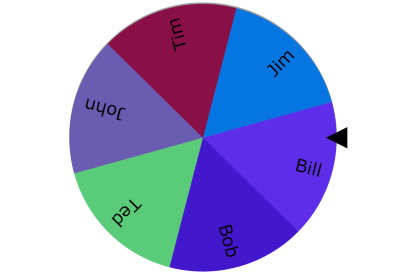
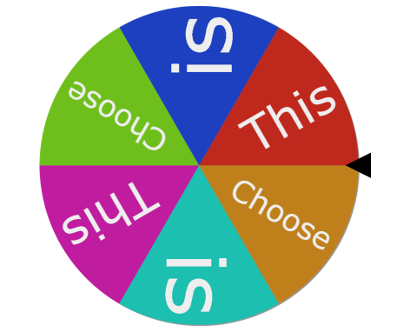
Fixed issue with autosize text. Added better random color generator. Updated Choose thumbnail.

diff --git a/js/choose.js b/js/choose.js
@@ -44,19 +44,48 @@ saveChoicesButton.addEventListener( "click", function()
 
 /* Utilities */
 
-var seed = 1;
-function fixedRandom()
+function HSVtoRGB( h, s, v )
 {
-    var x = Math.sin( seed++ ) * 10000;
-    return x - Math.floor( x );
+    var r, g, b, i, f, p, q, t;
+    if( h === undefined )
+    {
+        h = 1.0;
+    }
+    if( s === undefined )
+    {
+        s = 1.0;
+    }
+    if( v === undefined )
+    {
+        v = 1.0;
+    }
+    i = Math.floor( h * 6 );
+    f = h * 6 - i;
+    p = v * ( 1 - s );
+    q = v * ( 1 - f * s );
+    t = v * ( 1 - ( 1 - f ) * s );
+    switch( i % 6 )
+    {
+        case 0: r = v, g = t, b = p; break;
+        case 1: r = q, g = v, b = p; break;
+        case 2: r = p, g = v, b = t; break;
+        case 3: r = p, g = q, b = v; break;
+        case 4: r = t, g = p, b = v; break;
+        case 5: r = v, g = p, b = q; break;
+    }
+    r = Math.floor( r * 255 );
+    g = Math.floor( g * 255 );
+    b = Math.floor( b * 255 );
+    return "rgb( " + r + "," + g + "," + b + ")";
 }
 
+var goldenRatioConjugate = 0.618033988749895;
+var h = Math.random();
 function randomColor()
 {
-    var r = Math.floor( fixedRandom() * 256 );
-    var g = Math.floor( fixedRandom() * 256 );
-    var b = Math.floor( fixedRandom() * 256 );
-    return "rgb( " + r + "," + g + "," + b + ")";
+    h += goldenRatioConjugate;
+    h %= 1;
+    return HSVtoRGB( h, 0.85, 0.75 );
 }
 
 function random( min, max )
@@ -83,41 +112,23 @@ var first = true;
 
 function getFontSize( context, text, radius, textOffset, angle )
 {
-    var fontSize = Math.round( getChordLength( ( radius - textOffset ) / 2, angle ) );
-    var iterations = maxIterations;
-    if( first )
-        console.log( "Initial Radius: " + radius );
-    while( iterations > 0 )
+    var lastFontSize = 0;
+    var fontSize = lastFontSize + fontSizeStep;
+
+    var chordSize = getChordLength( radius - textOffset, angle );
+    while( chordSize > fontSize )
     {
-        if( first )
-            console.log( "Font Size: " + fontSize );
+        lastFontSize = fontSize;
+        fontSize += fontSizeStep;
         context.font = fontSize.toString() + "px Verdana";
         var size = context.measureText( text );
-        var subRadius = radius - textOffset - size.width;
-        if( first )
-            console.log( "Sub Radius: " + subRadius );
-        var chordLength = getChordLength( subRadius, angle );
-        if( first )
-            console.log( "Chord Length: " + chordLength );
-        if( chordLength > fontSize )
-        {
-            if( first )
-                console.log( "Final: " + fontSize );
-            first = false;
-            return fontSize;
-        }
-        else
-        {
-            fontSize -= fontSizeStep;
-        }
-        //iterations--;
+        chordSize = getChordLength( radius - textOffset - size.width, angle );
     }
-    first = false;
+    return lastFontSize;
 }
 
 function getChordLength( radius, angle )
 {
-    angle *= 180 / ( 2 * Math.PI );
     return Math.abs( 2 * Math.sin( angle / 2 ) * radius );
 }
 
@@ -135,7 +146,7 @@ function drawWheel( x, y, radius, segmentStrings )
 
     var segments = segmentStrings.length;
     var segmentAngle = 2 * Math.PI / segments;
-    var textOffset = radius * 0.1;
+    var textOffset = radius * 0.05;
     for( var i = 0; i < segments; i++ )
     {
         tempContext.beginPath();
@@ -150,14 +161,13 @@ function drawWheel( x, y, radius, segmentStrings )
 
         tempContext.rotate( -segmentAngle / 2 );
 
-        tempContext.fillStyle = "black";
-
         var text = segmentStrings[ i ];
-        var fontSize = getFontSize( tempContext, text, radius, textOffset, segmentAngle )
+        var fontSize = getFontSize( tempContext, text, radius, textOffset, segmentAngle );
         tempContext.font = fontSize.toString() + "px Verdana";
-
         var size = tempContext.measureText( text );
-        tempContext.fillText( text, radius - size.width - textOffset, fontSize / 3 );
+        tempContext.fillStyle = "#EEEEEE";
+        tempContext.textBaseline = "middle";
+        tempContext.fillText( text, radius - size.width - textOffset, 0 );
 
         tempContext.rotate( -segmentAngle / 2 );
     }
